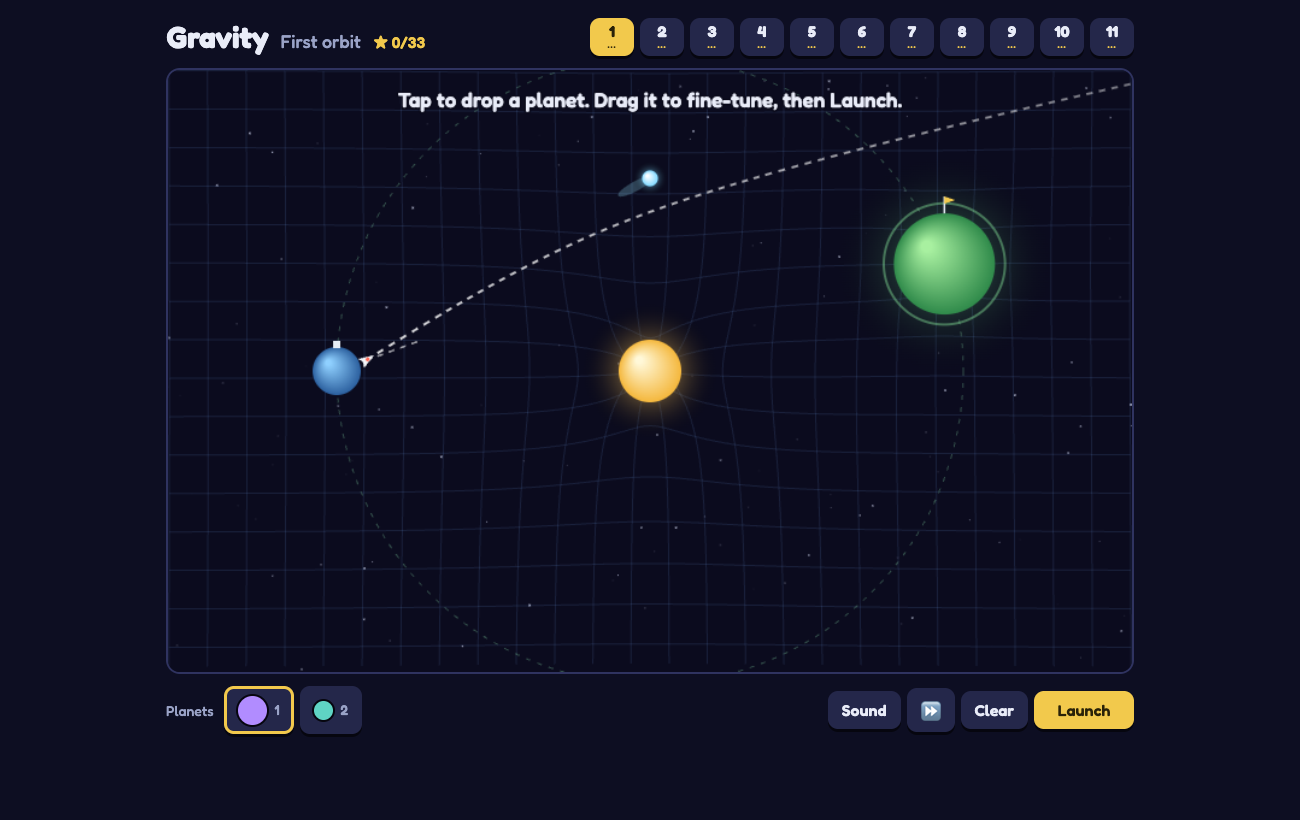
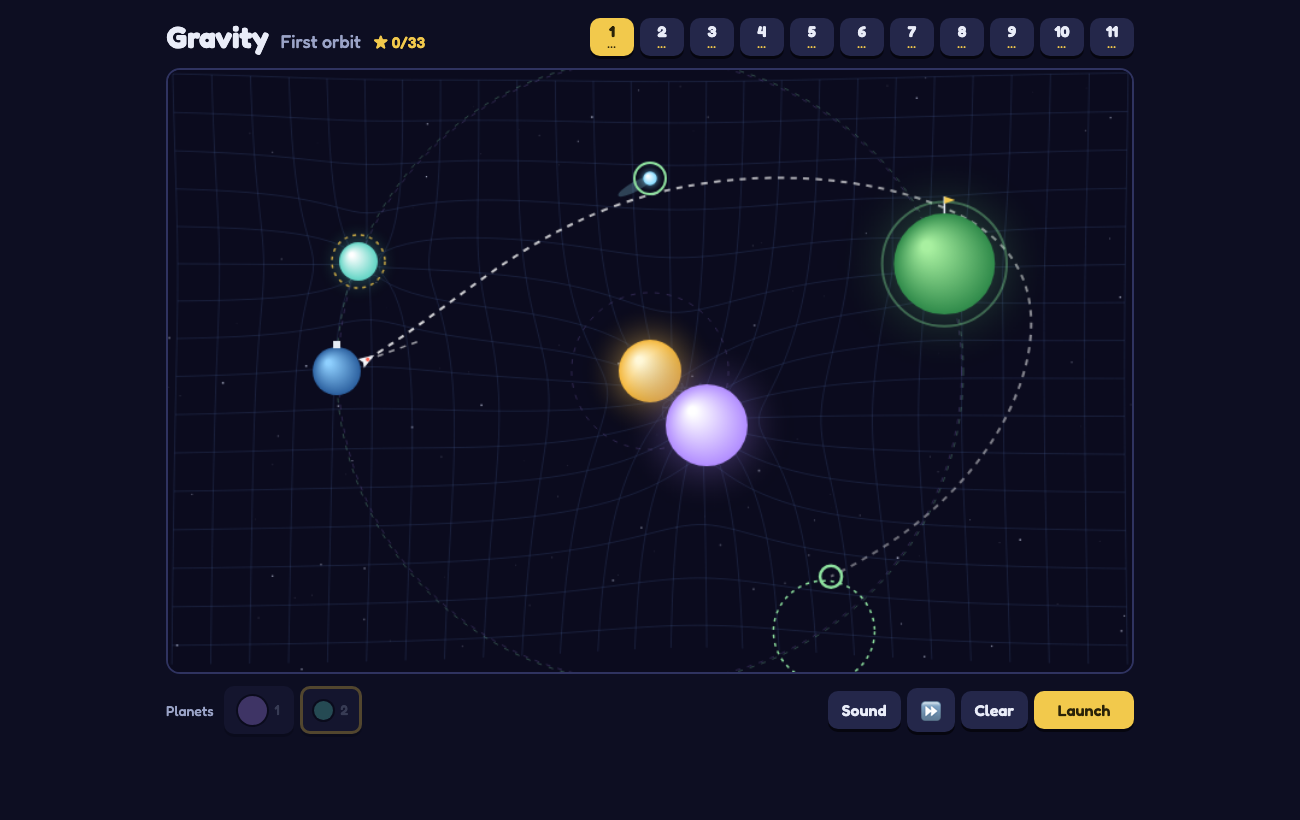
Gravity: show where the target will be, last-flight ghost, phone result card, remembers level
- Setup preview outlines the body that ends the flight where it WILL be by then
  (planets stand still while you plan, so a landing used to end in empty space);
  end mark is green for soft, yellow for rough, red for a crash.
- Comet gets a ring when the preview path collects it.
- After a flight, its whole path stays faintly on the chart while you set up the next try.
- Phones: the result card no longer overflows the chart, so Try again / Next can be tapped.
- Reopens the last level played; Enter = Next on the result card.
- Settings sections up front (physics + looks/controls), named constants, numbered sections.
  Physics and preview proven bit-identical to before on 660 random runs.

Claude-Session: https://claude.ai/code/session_01NFkjwohv68gp6v72RhcLRV

diff --git a/index.html b/index.html
@@ -58,7 +58,10 @@ canvas{display:block;width:100%;aspect-ratio:8/5;max-width:100%;touch-action:non
 .res .group{justify-content:center}
 @keyframes pop{0%{transform:scale(0) rotate(-40deg)}100%{transform:scale(1)}}
 @media (prefers-reduced-motion:reduce){.stars span.on{animation:none}}
-@media (max-width:560px){h1{font-size:24px}button{font-size:14px;padding:8px 11px}}
+@media (max-width:560px){h1{font-size:24px}button{font-size:14px;padding:8px 11px}
+  /* the star chart is only ~220px tall on a phone: shrink the result card so its buttons stay on screen */
+  .overlay{padding:6px}.res{padding:8px 14px;gap:5px;border-radius:12px}.res h2{font-size:19px}
+  .stars span{font-size:26px}.goals{font-size:12px;gap:1px}}
 </style>
 </head>
 <body>
@@ -85,11 +88,24 @@ canvas{display:block;width:100%;aspect-ratio:8/5;max-width:100%;touch-action:non
 </div>
 
 <script id="sim">
-/* ---------- physics (pixels, seconds) ----------
-   Every body orbits the level's star on a circle, angular speed w = dir*K/R^1.5 (Kepler's third law shape).
-   A moon can orbit another body instead. Planets you place join the same orbits from where you drop them.
-   The rocket is the only thing that feels gravity: a = sum mu*d/|d|^3 over every massive body. */
-const FW=800,FH=500,DT=1/240,LIMIT=30,DENSITY=1600,ROCKET_R=4;
+/* ========== 1. SETTINGS: physics (pixels, seconds) ==========
+   Every number that shapes the flight lives here. The game script below has its own settings for looks and controls. */
+const FIELD_W=800,FIELD_H=500;   // play field size in pixels
+const DT=1/240;                  // simulation time step; the preview uses the same step so it matches the real flight
+const LIMIT=30;                  // a flight gives up after this many seconds
+const DENSITY=1600;              // a placed planet's mass = DENSITY * radius^2
+const ROCKET_R=4;                // rocket hit radius
+const SOFTENING=25;              // added to distance^2 in the gravity sum so close passes stay finite
+const LAUNCH_GRACE=.4;           // seconds the rocket cannot hit its own start planet
+const COMET_PICKUP=16;           // the comet is collected within this distance
+const OUT_MARGIN=80;             // the rocket is lost this far outside the field
+const PREVIEW_MAX_STEPS=40000;   // safety cap on preview simulation steps
+
+/* ========== 2. LEVELS ==========
+   Each level: name, inv (radii of the planets in the tray), preview (seconds of path shown before launch),
+   launch (angle in degrees, speed), soft (fastest touchdown that still counts as soft), comet (x,y of the bonus),
+   star (centre, size, mass mu, orbit speed K, dir +1 clockwise / -1 counter), bodies (start, dest, rocks, lava, moons).
+   ring(R,n,gapFrom,gapLen) builds a ring of n rocks at radius R with a gap. */
 const deg=a=>a*Math.PI/180;
 function ring(R,n,gapFrom,gapLen,r=11){const out=[];for(let i=0;i<n;i++){if(i>=gapFrom&&i<gapFrom+gapLen)continue;const a=2*Math.PI*i/n;out.push({type:'rock',polar:[R,a],r,mu:0});}return out;}
 const LEVELS=[
@@ -109,6 +125,10 @@ const LEVELS=[
   {"name":"Against the flow","preview":5,"inv":[36,24,14],"launch":{"ang":-15.902,"v":206.379},"soft":150,"comet":[549.419,224.638],"star":{"x":400,"y":250,"r":22,"mu":1124495.931,"K":1003.111,"dir":-1},"bodies":[{"type":"start","polar":[289.023,2.648],"r":20,"mu":0},{"type":"dest","polar":[152.6,0.654],"r":18,"mu":18000},{"type":"lava","polar":[224.356,2.403],"r":28,"mu":1254400},{"type":"rock","polar":[110,0],"r":10,"mu":0},{"type":"rock","polar":[110,0.314],"r":10,"mu":0},{"type":"rock","polar":[110,0.628],"r":10,"mu":0},{"type":"rock","polar":[110,0.942],"r":10,"mu":0},{"type":"rock","polar":[110,1.257],"r":10,"mu":0},{"type":"rock","polar":[110,1.571],"r":10,"mu":0},{"type":"rock","polar":[110,1.885],"r":10,"mu":0},{"type":"rock","polar":[110,2.199],"r":10,"mu":0},{"type":"rock","polar":[110,3.77],"r":10,"mu":0},{"type":"rock","polar":[110,4.084],"r":10,"mu":0},{"type":"rock","polar":[110,4.398],"r":10,"mu":0},{"type":"rock","polar":[110,4.712],"r":10,"mu":0},{"type":"rock","polar":[110,5.027],"r":10,"mu":0},{"type":"rock","polar":[110,5.341],"r":10,"mu":0},{"type":"rock","polar":[110,5.655],"r":10,"mu":0},{"type":"rock","polar":[110,5.969],"r":10,"mu":0}]},
   {"name":"Grand tour","preview":4,"inv":[38,26,16,10],"launch":{"ang":-9.151,"v":202.002},"soft":150,"comet":[401.22,365.672],"star":{"x":400,"y":250,"r":16,"mu":3902070.976,"K":1521.38,"dir":1,"hole":true},"bodies":[{"type":"start","xy":[82.821,337.717],"r":20,"mu":0},{"type":"rock","polar":[243.106,0.459],"r":30,"mu":1491400,"id":"giant"},{"type":"dest","moonOf":"giant","R":76.921,"ph":3.917,"w":-0.942,"r":14,"mu":12000},{"type":"lava","polar":[147.7,5.616],"r":26,"mu":1081600},{"type":"rock","polar":[95,0],"r":10,"mu":0},{"type":"rock","polar":[95,0.349],"r":10,"mu":0},{"type":"rock","polar":[95,2.094],"r":10,"mu":0},{"type":"rock","polar":[95,2.443],"r":10,"mu":0},{"type":"rock","polar":[95,2.793],"r":10,"mu":0},{"type":"rock","polar":[95,3.142],"r":10,"mu":0},{"type":"rock","polar":[95,3.491],"r":10,"mu":0},{"type":"rock","polar":[95,3.84],"r":10,"mu":0},{"type":"rock","polar":[95,4.189],"r":10,"mu":0},{"type":"rock","polar":[95,4.538],"r":10,"mu":0},{"type":"rock","polar":[95,4.887],"r":10,"mu":0},{"type":"rock","polar":[95,5.236],"r":10,"mu":0},{"type":"rock","polar":[95,5.585],"r":10,"mu":0},{"type":"rock","polar":[95,5.934],"r":10,"mu":0}]}
 ];
+/* ========== 3. PHYSICS ==========
+   Every body orbits the level's star on a circle, angular speed w = dir*K/R^1.5 (Kepler's third law shape).
+   A moon can orbit another body instead. Planets you place join the same orbits from where you drop them.
+   The rocket is the only thing that feels gravity: a = sum mu*d/|d|^3 over every massive body. */
 function makeWorld(L,placed){
   const S=L.star,bodies=[];
   const orbitAbout=(b,x,y)=>{const R=Math.hypot(x-S.x,y-S.y)||1;Object.assign(b,{cx:S.x,cy:S.y,R,ph:Math.atan2(y-S.y,x-S.x),w:S.dir*S.K/Math.pow(R,1.5)});};
@@ -134,39 +154,53 @@ function movePlanet(w,b,x,y){w.orbitAbout(b,x,y);b.ph-=b.w*w.t;[b.px,b.py]=pos(b
 function cloneWorld(w){const map=new Map(),bodies=w.bodies.map(b=>{const c=Object.assign({},b);map.set(b,c);return c;});for(const c of bodies)if(c.parent)c.parent=map.get(c.parent);
   return Object.assign({},w,{bodies,rocket:Object.assign({},w.rocket)});}
 function predict(w,secs){const c=cloneWorld(w);if(c.state==='pad'){c.state='fly';c.ft=0;}const pts=[[c.rocket.x,c.rocket.y]];let n=0;
-  while(c.state==='fly'&&c.ft<secs&&n++<40000){step(c,DT);const l=pts[pts.length-1];if(Math.hypot(l[0]-c.rocket.x,l[1]-c.rocket.y)>5)pts.push([c.rocket.x,c.rocket.y]);}
-  pts.push([c.rocket.x,c.rocket.y]);return {pts,result:c.state==='done'?c.result:null};}
-function accel(w,x,y){let ax=0,ay=0;for(const b of w.bodies){if(!b.mu)continue;const dx=b.px-x,dy=b.py-y,d2=dx*dx+dy*dy+25,d=Math.sqrt(d2);ax+=b.mu*dx/(d2*d);ay+=b.mu*dy/(d2*d);}return [ax,ay];}
+  while(c.state==='fly'&&c.ft<secs&&n++<PREVIEW_MAX_STEPS){step(c,DT);const l=pts[pts.length-1];if(Math.hypot(l[0]-c.rocket.x,l[1]-c.rocket.y)>5)pts.push([c.rocket.x,c.rocket.y]);}
+  pts.push([c.rocket.x,c.rocket.y]);const hit=c.hit?{x:c.hit.px,y:c.hit.py,r:c.hit.r}:null; // where the body that ends the flight will be by then
+  return {pts,result:c.state==='done'?c.result:null,comet:c.comet,hit};}
+function accel(w,x,y){let ax=0,ay=0;for(const b of w.bodies){if(!b.mu)continue;const dx=b.px-x,dy=b.py-y,d2=dx*dx+dy*dy+SOFTENING,d=Math.sqrt(d2);ax+=b.mu*dx/(d2*d);ay+=b.mu*dy/(d2*d);}return [ax,ay];}
 function step(w,dt){
   if(w.state!=='fly')return;
   w.t+=dt;w.ft+=dt;place(w,w.t);
   const R=w.rocket,[ax,ay]=accel(w,R.x,R.y);R.vx+=ax*dt;R.vy+=ay*dt;R.x+=R.vx*dt;R.y+=R.vy*dt;
   for(const b of w.bodies){
-    if(b.type==='start'&&w.ft<.4)continue;
+    if(b.type==='start'&&w.ft<LAUNCH_GRACE)continue;
     const dx=R.x-b.px,dy=R.y-b.py;if(dx*dx+dy*dy>(b.r+ROCKET_R)**2)continue;
     w.state='done';w.hit=b;
     if(b.type==='dest'){const [bvx,bvy]=vel(b,w.t);w.impact=Math.hypot(R.vx-bvx,R.vy-bvy);w.result=w.impact<=w.L.soft?'soft':'hard';}
     else w.result='crash';
     return;
   }
-  const c=w.L.comet;if(!w.comet&&Math.hypot(R.x-c[0],R.y-c[1])<16)w.comet=true;
-  if(R.x<-80||R.x>FW+80||R.y<-80||R.y>FH+80||w.ft>LIMIT){w.state='done';w.result='lost';}
+  const c=w.L.comet;if(!w.comet&&Math.hypot(R.x-c[0],R.y-c[1])<COMET_PICKUP)w.comet=true;
+  if(R.x<-OUT_MARGIN||R.x>FIELD_W+OUT_MARGIN||R.y<-OUT_MARGIN||R.y>FIELD_H+OUT_MARGIN||w.ft>LIMIT){w.state='done';w.result='lost';}
 }
 function launch(w){if(w.state==='pad'){w.state='fly';w.ft=0;}}
-if(typeof module!=='undefined')module.exports={LEVELS,makeWorld,step,addPlanet,launch,movePlanet,predict,DT,FW,FH};
+if(typeof module!=='undefined')module.exports={LEVELS,makeWorld,step,addPlanet,launch,movePlanet,predict,DT,FIELD_W,FIELD_H};
 </script>
 
 <script>
-/* ---------- game ---------- */
+/* ========== 4. SETTINGS: looks and controls ========== */
+const PLACED_COL=['#b18cff','#5fd4c4','#ff9fd0','#9fd0ff']; // colour of tray planet 1..4
+const FAST_FORWARD=3;          // speed of the fast-forward button (F)
+const TRAIL_SPACING=4;         // pixels between recorded rocket path points
+const TRAIL_POINTS=160;        // length of the glowing trail behind the flying rocket
+const GHOST_ALPHA=.45;          // brightness of the last flight's path, shown while you set up the next try
+const NUDGE_PIXELS=1,NUDGE_PIXELS_SHIFT=5; // arrow-key nudge of the selected planet (Shift = big step)
+const CRASH_SHAKE_SECONDS=.35; // screen shake after a crash
+const RESULT_COL={soft:'#8fe3a0',hard:'#f2c94c',crash:'#ff7d6e',lost:'#ff7d6e'}; // end-of-path mark: green soft, yellow rough, red fail
+const SAVE_KEY='gravity-save'; // localStorage key: {stars:{level:count}, mute, last}
+
+/* ========== 5. GAME STATE AND SAVE ========== */
 const $=s=>document.querySelector(s);
 const cv=$('#space'),g=cv.getContext('2d'),DPR=Math.min(2,window.devicePixelRatio||1);
-cv.width=FW*DPR;cv.height=FH*DPR;
+cv.width=FIELD_W*DPR;cv.height=FIELD_H*DPR;
 const reduce=matchMedia('(prefers-reduced-motion: reduce)').matches;
-const PLACED_COL=['#b18cff','#5fd4c4','#ff9fd0','#9fd0ff'];
 let li=0,world,placed=[],used=[],sel=0,acc=0,trail=[],done=false,shown=null,drag=null,touched=null,preview=null,dirty=true,fast=false,sparks=[],shake=0,hadComet=false;
-let save={stars:{},mute:false};try{save=Object.assign(save,JSON.parse(localStorage.getItem('gravity-save')||'{}'));}catch(e){}
-function persist(){try{localStorage.setItem('gravity-save',JSON.stringify(save));}catch(e){}}
-/* sound: tiny synth, no audio files */
+let flightPath=[],ghost=null; // full path of the flight in progress, and of the last finished flight
+let save={stars:{},mute:false,last:0};try{save=Object.assign(save,JSON.parse(localStorage.getItem(SAVE_KEY)||'{}'));}catch(e){}
+function persist(){try{localStorage.setItem(SAVE_KEY,JSON.stringify(save));}catch(e){}}
+
+/* ========== 6. SOUND AND SPARKS ==========
+   Sound: tiny WebAudio synth, no audio files; everything is silent while save.mute is on. */
 let ac=null;
 function tone(f,dur,{type='sine',vol=.12,to=f,delay=0}={}){
   if(save.mute)return;try{ac=ac||new AudioContext();const t0=ac.currentTime+delay,o=ac.createOscillator(),v=ac.createGain();
@@ -192,7 +226,8 @@ const SFX={
 /* sparks: short-lived particles for comet pickups, landings and crashes */
 function burst(x,y,n,cols,speed=120,life=.9){if(reduce)n=Math.ceil(n/4);for(let i=0;i<n;i++){const a=Math.random()*6.283,v=speed*(.3+Math.random());
   sparks.push({x,y,vx:Math.cos(a)*v,vy:Math.sin(a)*v,life:life*(.5+Math.random()*.5),age:0,col:cols[i%cols.length],r:1.5+Math.random()*2});}}
-const sky=(()=>{let s=4;const r=()=>{s=(s*16807)%2147483647;return s/2147483647;};return Array.from({length:140},()=>[r()*FW,r()*FH,r()*1.4+.3,r()*6.28]);})();
+/* ========== 7. LEVEL, TRAY AND BUTTONS ========== */
+const sky=(()=>{let s=4;const r=()=>{s=(s*16807)%2147483647;return s/2147483647;};return Array.from({length:140},()=>[r()*FIELD_W,r()*FIELD_H,r()*1.4+.3,r()*6.28]);})();
 
 function buildLevels(){
   const el=$('#levels');el.innerHTML='';
@@ -206,17 +241,19 @@ function buildInv(){
     const d=Math.round(10+r*.55);b.innerHTML=`<i style="width:${d}px;height:${d}px;background:${PLACED_COL[i%4]}"></i><span>${i+1}</span>`;b.title=`Planet ${i+1}, radius ${r}`;
     b.onclick=()=>{sel=i;buildInv();};el.appendChild(b);});
 }
-function nextFree(){const i=used.findIndex((u,k)=>!u&&k>=0);return i;}
-function load(i){li=i;placed=[];used=LEVELS[i].inv.map(()=>false);sel=0;$('#lvname').textContent=LEVELS[i].name;reset();buildLevels();buildInv();}
-function reset(){world=makeWorld(LEVELS[li],[]);for(const p of placed)p.body=addPlanet(world,p.x,p.y,p.r,0),p.body.slot=p.slot;trail=[];sparks=[];shake=0;hadComet=false;done=false;acc=0;dirty=true;drag=null;$('#ov').hidden=true;$('#bLaunch').textContent='Launch';}
+/* first tray slot still free, or -1 */
+const nextFree=()=>used.findIndex(u=>!u);
+function load(i){li=i;save.last=i;persist();ghost=null;placed=[];used=LEVELS[i].inv.map(()=>false);sel=0;$('#lvname').textContent=LEVELS[i].name;reset();buildLevels();buildInv();}
+function reset(){world=makeWorld(LEVELS[li],[]);for(const p of placed)p.body=addPlanet(world,p.x,p.y,p.r,0),p.body.slot=p.slot;trail=[];flightPath=[];sparks=[];shake=0;hadComet=false;done=false;acc=0;dirty=true;drag=null;$('#ov').hidden=true;$('#bLaunch').textContent='Launch';}
 function clearAll(){placed=[];used=used.map(()=>false);sel=0;reset();buildInv();}
 function go(){if(world.state==='pad'){launch(world);SFX.launch();$('#bLaunch').textContent='Reset';}else reset();}
 function setFast(on){fast=on;$('#bFast').classList.toggle('on',fast);}
 function setMute(on){save.mute=on;persist();$('#bMute').textContent=on?'Muted':'Sound';}
 
-/* placing: tap empty space drops the selected planet into orbit; tap one of yours to take it back */
-function pt(e){const r=cv.getBoundingClientRect();return [(e.clientX-r.left)/r.width*FW,(e.clientY-r.top)/r.height*FH];}
-const fits=(x,y,r,skip)=>!world.bodies.some(b=>b!==skip&&Math.hypot(b.px-x,b.py-y)<b.r+r+4)&&Math.hypot(world.rocket.x-x,world.rocket.y-y)>=r+8&&x>0&&x<FW&&y>0&&y<FH;
+/* ========== 8. INPUT ==========
+   Placing: tap empty space drops the selected planet into orbit; tap one of yours to take it back */
+function pt(e){const r=cv.getBoundingClientRect();return [(e.clientX-r.left)/r.width*FIELD_W,(e.clientY-r.top)/r.height*FIELD_H];}
+const fits=(x,y,r,skip)=>!world.bodies.some(b=>b!==skip&&Math.hypot(b.px-x,b.py-y)<b.r+r+4)&&Math.hypot(world.rocket.x-x,world.rocket.y-y)>=r+8&&x>0&&x<FIELD_W&&y>0&&y<FIELD_H;
 function takeBack(b){SFX.take();world.bodies.splice(world.bodies.indexOf(b),1);used[b.slot]=false;placed=placed.filter(p=>p.body!==b);sel=b.slot;if(touched===b)touched=null;dirty=true;buildInv();}
 function moveTo(b,x,y){if(!fits(x,y,b.r,b))return false;movePlanet(world,b,x,y);const p=placed.find(p=>p.body===b);p.x=x;p.y=y;dirty=true;return true;}
 cv.addEventListener('pointerdown',e=>{
@@ -241,20 +278,23 @@ cv.addEventListener('pointerup',endDrag);cv.addEventListener('pointercancel',end
 let bad=null;function flash(x,y){bad={x,y,t:performance.now()/1000};}
 addEventListener('keydown',e=>{if(e.metaKey||e.ctrlKey)return;if(e.repeat&&!e.key.startsWith('Arrow'))return;const k=e.key.toLowerCase();
   const NUDGE={arrowleft:[-1,0],arrowright:[1,0],arrowup:[0,-1],arrowdown:[0,1]};
-  if(NUDGE[k]&&touched&&world.state==='pad'){e.preventDefault();const m=e.shiftKey?5:1;moveTo(touched,touched.px+NUDGE[k][0]*m,touched.py+NUDGE[k][1]*m);return;}
+  if(NUDGE[k]&&touched&&world.state==='pad'){e.preventDefault();const m=e.shiftKey?NUDGE_PIXELS_SHIFT:NUDGE_PIXELS;moveTo(touched,touched.px+NUDGE[k][0]*m,touched.py+NUDGE[k][1]*m);return;}
   if(k===' '){e.preventDefault();if(!$('#ov').hidden)reset();else go();}
+  else if(k==='enter'&&!$('#ov').hidden){e.preventDefault();($('#ovNext').hidden?reset:nextLevel)();}
   else if(k==='r')reset();else if(k==='c')clearAll();else if(k==='f')setFast(!fast);else if(k==='m')setMute(!save.mute);
   else if(k>='1'&&k<='4'&&+k<=LEVELS[li].inv.length&&!used[+k-1]){sel=+k-1;buildInv();}});
 $('#bLaunch').onclick=go;$('#bClear').onclick=clearAll;$('#bFast').onclick=()=>setFast(!fast);$('#bMute').onclick=()=>setMute(!save.mute);
-$('#ovRetry').onclick=reset;$('#ovNext').onclick=()=>load(Math.min(LEVELS.length-1,li+1));
+const nextLevel=()=>load(Math.min(LEVELS.length-1,li+1));
+$('#ovRetry').onclick=reset;$('#ovNext').onclick=nextLevel;
 
+/* ========== 9. RESULT ========== */
 function finish(){
-  done=true;const w=world,land=w.result==='soft'||w.result==='hard';
+  done=true;ghost={pts:[...flightPath,[world.rocket.x,world.rocket.y]],result:world.result,hit:world.hit?{x:world.hit.px,y:world.hit.py,r:world.hit.r}:null};const w=world,land=w.result==='soft'||w.result==='hard';
   const n=land?1+(w.result==='soft'?1:0)+(w.comet?1:0):0;
   if(n>(save.stars[li]||0)){save.stars[li]=n;persist();buildLevels();}
   const R=w.rocket;
   if(land){SFX[w.result]();burst(R.x,R.y,w.result==='soft'?40:24,w.result==='soft'?['#8fe3a0','#f2c94c','#ffffff']:['#f2c94c','#c9cbe0'],w.result==='soft'?140:90);for(let k=0;k<n;k++)setTimeout(()=>SFX.star(k),400+k*180);}
-  else if(w.result==='crash'){SFX.crash();burst(R.x,R.y,50,['#ffb347','#ff6b5a','#ffe08a','#8a8aa0'],170,1.1);shake=reduce?0:.35;}
+  else if(w.result==='crash'){SFX.crash();burst(R.x,R.y,50,['#ffb347','#ff6b5a','#ffe08a','#8a8aa0'],170,1.1);shake=reduce?0:CRASH_SHAKE_SECONDS;}
   else tone(300,.6,{to:150,vol:.06});
   const why={soft:'Safe landing!',hard:'Rough landing',crash:'Crashed',lost:'Lost in space'}[w.result];
   $('#ovTitle').textContent=why;
@@ -264,14 +304,14 @@ function finish(){
   $('#ovNext').hidden=!land||li>=LEVELS.length-1;$('#ov').hidden=false;$('#bLaunch').textContent='Retry';
 }
 
-/* drawing */
+/* ========== 10. DRAWING ========== */
 const P=b=>[b.px,b.py];
 function warpGrid(){
   const st=32,masses=world.bodies.filter(b=>b.mu>0);
   const pt=(x,y)=>{let dx=0,dy=0;for(const b of masses){const ex=b.px-x,ey=b.py-y,d2=ex*ex+ey*ey,d=Math.sqrt(d2)+1e-3,m=Math.min(.75*d,b.mu*.00012*1/(1+d2/2500)*(b.type==='hole'?1.6:1));dx+=ex/d*m;dy+=ey/d*m;}return [x+dx,y+dy];};
   g.strokeStyle='rgba(120,170,255,.13)';g.lineWidth=1;
-  for(let y=0;y<=FH;y+=st){g.beginPath();for(let x=0;x<=FW;x+=8)g.lineTo(...pt(x,y));g.stroke();}
-  for(let x=0;x<=FW;x+=st){g.beginPath();for(let y=0;y<=FH;y+=8)g.lineTo(...pt(x,y));g.stroke();}
+  for(let y=0;y<=FIELD_H;y+=st){g.beginPath();for(let x=0;x<=FIELD_W;x+=8)g.lineTo(...pt(x,y));g.stroke();}
+  for(let x=0;x<=FIELD_W;x+=st){g.beginPath();for(let y=0;y<=FIELD_H;y+=8)g.lineTo(...pt(x,y));g.stroke();}
 }
 function orbitPath(b){
   if(!b.R||b.type==='star'||b.type==='hole')return;
@@ -303,19 +343,36 @@ function drawRocket(R,t,live){
   g.fillStyle='#f3f5fa';g.beginPath();g.moveTo(8,0);g.lineTo(-5,-4.5);g.lineTo(-3,0);g.lineTo(-5,4.5);g.closePath();g.fill();
   g.fillStyle='#ff6b5a';g.beginPath();g.arc(1.5,0,1.6,0,7);g.fill();g.restore();
 }
+/* where a path ends: a ring for a landing (green soft, yellow rough), a cross for a crash or a lost rocket.
+   The planets stand still while you set up, so the body that ends the flight is outlined where it WILL be by then. */
+function outcomeMark([x,y],result,hit,alpha=1){
+  g.globalAlpha=alpha;g.strokeStyle=RESULT_COL[result];
+  if(hit){g.lineWidth=1.5;g.setLineDash([3,4]);g.beginPath();g.arc(hit.x,hit.y,hit.r,0,7);g.stroke();g.setLineDash([]);}
+  g.lineWidth=2.5;g.beginPath();
+  if(result==='soft'||result==='hard')g.arc(x,y,9,0,7);else{g.moveTo(x-7,y-7);g.lineTo(x+7,y+7);g.moveTo(x+7,y-7);g.lineTo(x-7,y+7);}
+  g.stroke();g.globalAlpha=1;
+}
+/* the last flight, faint and dashed, so the next try can be compared with it */
+function drawGhost({pts,result,hit}){
+  if(pts.length<2)return;
+  g.strokeStyle=`rgba(255,200,140,${GHOST_ALPHA})`;g.lineWidth=1.5;g.setLineDash([2,5]);g.beginPath();g.moveTo(...pts[0]);
+  for(const p of pts)g.lineTo(...p);g.stroke();g.setLineDash([]);
+  outcomeMark(pts[pts.length-1],result,hit,.55);
+}
 function label(t,x,y,size=18,col='#e9ecf8'){g.font=`600 ${size}px Fredoka, system-ui, sans-serif`;g.textAlign='center';g.textBaseline='middle';g.lineWidth=4;g.strokeStyle='rgba(8,8,24,.8)';g.strokeText(t,x,y);g.fillStyle=col;g.fillText(t,x,y);}
 function render(now){
   const t=now/1000,w=world,sk=shake>0?shake*24:0;
   g.setTransform(DPR,0,0,DPR,sk*(Math.random()-.5)*DPR,sk*(Math.random()-.5)*DPR);
-  g.fillStyle='#0b0b1e';g.fillRect(-20,-20,FW+40,FH+40);
+  g.fillStyle='#0b0b1e';g.fillRect(-20,-20,FIELD_W+40,FIELD_H+40);
   for(const [x,y,r,p] of sky){g.globalAlpha=reduce?.6:.35+.35*Math.sin(t*1.3+p);g.fillStyle='#dfe6ff';g.fillRect(x,y,r,r);}g.globalAlpha=1;
   warpGrid();
   for(const b of w.bodies)orbitPath(b);
   const c=w.L.comet;if(!w.comet){const k=reduce?0:Math.sin(t*3)*.15;g.save();g.translate(...c);g.rotate(-.5);g.fillStyle='rgba(150,230,255,.25)';g.beginPath();g.ellipse(-14,0,16,4,0,0,7);g.fill();g.restore();ball(c[0],c[1],6*(1+k),'#ffffff','#7fd8ff','rgba(127,216,255,.5)');}
+  if(ghost&&w.state==='pad')drawGhost(ghost);
   if(preview&&preview.pts.length>1){const pts=preview.pts,live=w.state==='pad';g.lineWidth=2;
     for(let i=1;i<pts.length;i+=2){const a=live?.85*(1-.55*i/pts.length):.25;g.strokeStyle=`rgba(255,255,255,${a})`;g.beginPath();g.moveTo(...pts[i-1]);g.lineTo(...pts[i]);g.stroke();}
-    if(live&&preview.result){const e=pts[pts.length-1],ok=preview.result==='soft'||preview.result==='hard';g.strokeStyle=ok?'#8fe3a0':'#ff7d6e';g.lineWidth=2.5;g.beginPath();
-      if(ok)g.arc(e[0],e[1],9,0,7);else{g.moveTo(e[0]-7,e[1]-7);g.lineTo(e[0]+7,e[1]+7);g.moveTo(e[0]+7,e[1]-7);g.lineTo(e[0]-7,e[1]+7);}g.stroke();}}
+    if(live&&preview.result)outcomeMark(pts[pts.length-1],preview.result,preview.hit);
+    if(live&&preview.comet&&!w.comet){g.strokeStyle=RESULT_COL.soft;g.lineWidth=2;g.beginPath();g.arc(c[0],c[1],13,0,7);g.stroke();}}
   for(const b of w.bodies)drawBody(b,t);
   if(touched&&w.state==='pad'&&w.bodies.includes(touched)){g.strokeStyle='rgba(242,201,76,.8)';g.setLineDash([3,4]);g.lineWidth=1.5;g.beginPath();g.arc(touched.px,touched.py,touched.r+6,0,7);g.stroke();g.setLineDash([]);}
   if(trail.length>1){for(let i=1;i<trail.length;i++){g.strokeStyle=`rgba(255,200,140,${i/trail.length*.7})`;g.lineWidth=2;g.beginPath();g.moveTo(...trail[i-1]);g.lineTo(...trail[i]);g.stroke();}}
@@ -324,21 +381,22 @@ function render(now){
   else{const R=w.rocket,k=Math.min(1,(t-(shown||t))*2);g.fillStyle=`rgba(255,160,80,${1-k})`;g.beginPath();g.arc(R.x,R.y,6+18*k,0,7);g.fill();}
   for(const p of sparks){const k=1-p.age/p.life;g.globalAlpha=k;g.fillStyle=p.col;g.beginPath();g.arc(p.x,p.y,p.r*(.5+k*.5),0,7);g.fill();}g.globalAlpha=1;
   if(bad&&t-bad.t<.4){g.strokeStyle=`rgba(255,110,110,${1-(t-bad.t)/.4})`;g.lineWidth=2;g.beginPath();g.arc(bad.x,bad.y,14,0,7);g.moveTo(bad.x-8,bad.y-8);g.lineTo(bad.x+8,bad.y+8);g.stroke();}
-  if(w.state==='pad'&&placed.length===0)label('Tap to drop a planet. Drag it to fine-tune, then Launch.',FW/2,26,17);
-  if(w.state==='fly')label(`${w.ft.toFixed(1)} s`+(fast?'  ×3':''),FW-50,22,15,fast?'#f2c94c':'#9aa3c7');
+  if(w.state==='pad'&&placed.length===0)label('Tap to drop a planet. Drag it to fine-tune, then Launch.',FIELD_W/2,26,17);
+  if(w.state==='fly')label(`${w.ft.toFixed(1)} s`+(fast?`  ×${FAST_FORWARD}`:''),FIELD_W-50,22,15,fast?'#f2c94c':'#9aa3c7');
 }
+/* ========== 11. MAIN LOOP AND START ========== */
 let last=performance.now();
 function frame(now){
   const dt=Math.min(.05,(now-last)/1000);last=now;
-  if(world.state==='fly'){acc+=dt*(fast?3:1);while(acc>=DT&&world.state==='fly'){step(world,DT);acc-=DT;}
-    const R=world.rocket,lt=trail[trail.length-1];if(!lt||Math.hypot(lt[0]-R.x,lt[1]-R.y)>4){trail.push([R.x,R.y]);if(trail.length>160)trail.shift();}}
+  if(world.state==='fly'){acc+=dt*(fast?FAST_FORWARD:1);while(acc>=DT&&world.state==='fly'){step(world,DT);acc-=DT;}
+    const R=world.rocket,lt=trail[trail.length-1];if(!lt||Math.hypot(lt[0]-R.x,lt[1]-R.y)>TRAIL_SPACING){trail.push([R.x,R.y]);flightPath.push([R.x,R.y]);if(trail.length>TRAIL_POINTS)trail.shift();}}
   if(world.comet&&!hadComet){hadComet=true;SFX.comet();burst(...world.L.comet,26,['#7fd8ff','#ffffff','#b9f0ff'],110,.8);}
   for(const p of sparks){p.age+=dt;p.x+=p.vx*dt;p.y+=p.vy*dt;p.vx*=1-2*dt;p.vy*=1-2*dt;}sparks=sparks.filter(p=>p.age<p.life);shake=Math.max(0,shake-dt);
   if(world.state==='pad'&&dirty){preview=predict(world,LEVELS[li].preview);dirty=false;}
   if(world.state==='done'&&!done){shown=now/1000;finish();}
   render(now);requestAnimationFrame(frame);
 }
-setMute(save.mute);load(0);requestAnimationFrame(frame);
+setMute(save.mute);load(Math.min(LEVELS.length-1,save.last|0));requestAnimationFrame(frame);
 </script>
 </body>
 </html>
